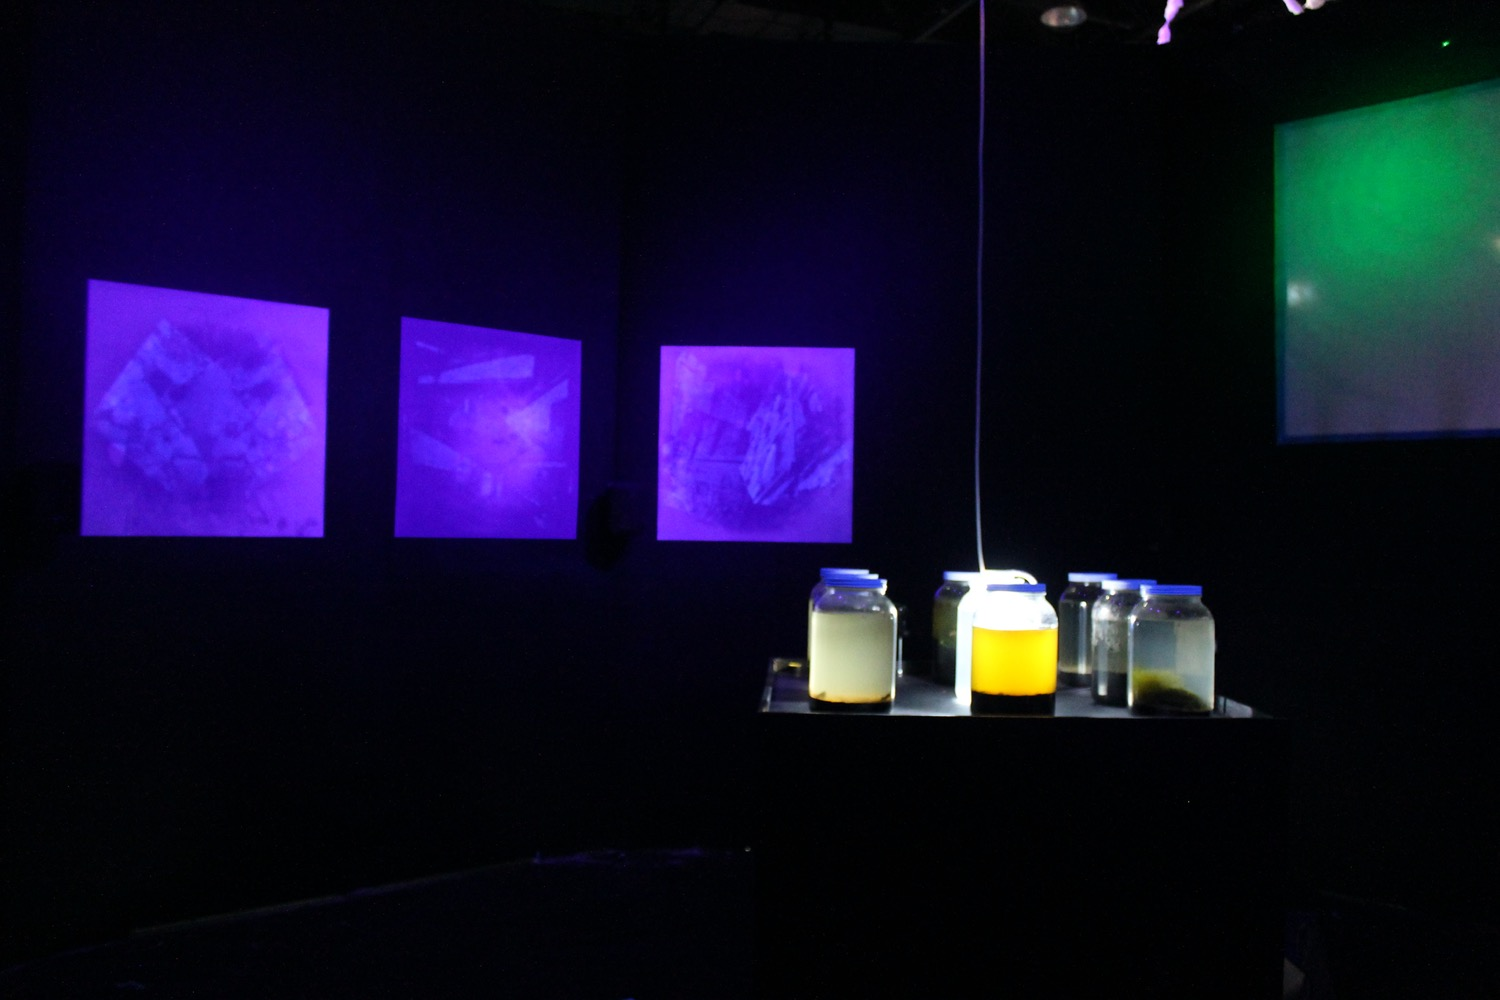
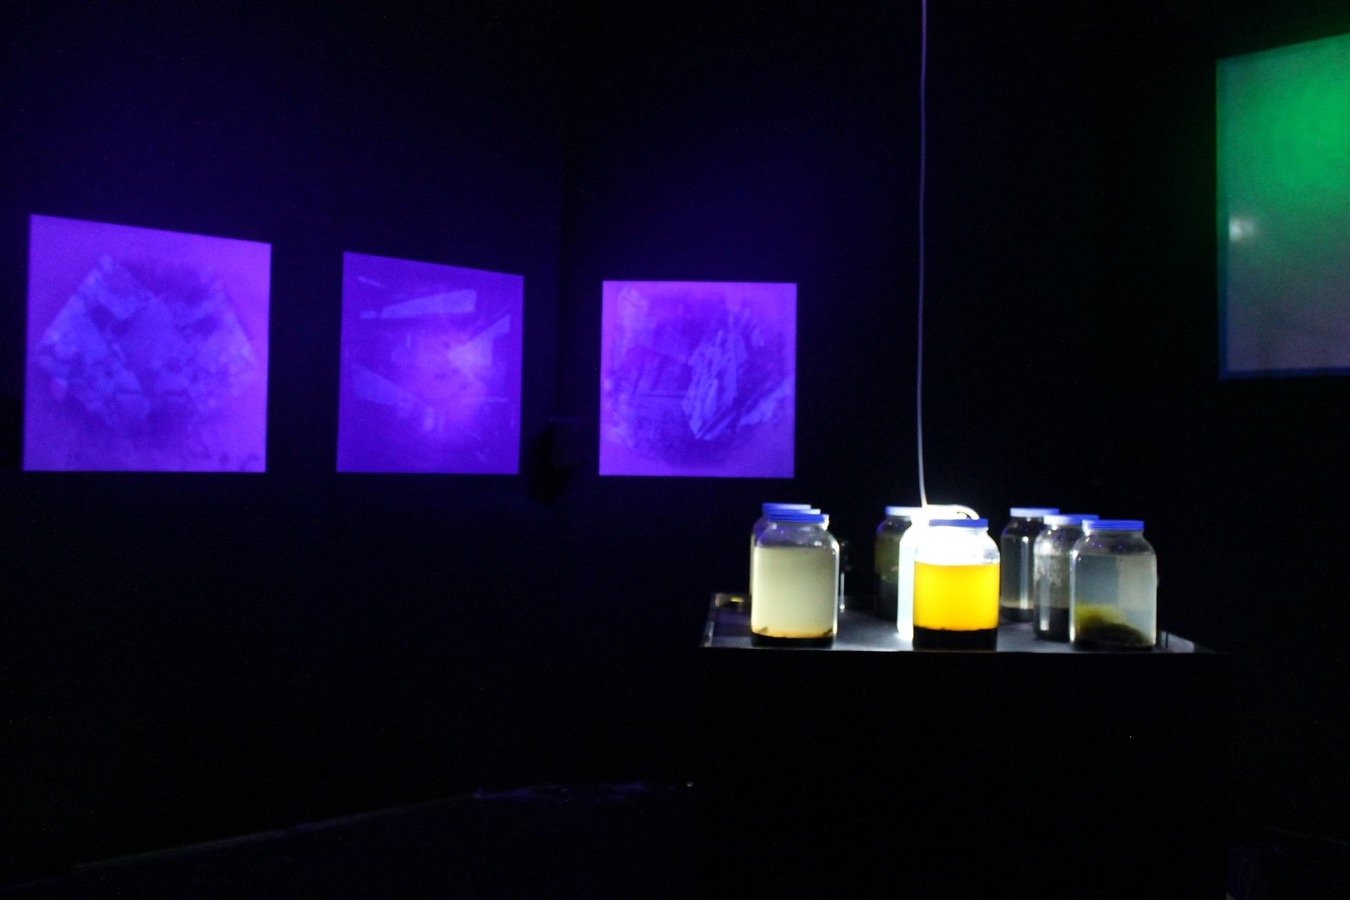
img sizes

diff --git a/_posts/2013-12-01-street-score.md b/_posts/2013-12-01-street-score.md
@@ -1,13 +1,13 @@
 ---
 layout: post
 title:  Street Score
-image: "/assets/projects/streetscore/streetscore_3.jpg"
+image: "/assets/projects/streetscore/streetscore_3_s.jpg"
 categories: [Logic, Max/MSP]
 placedate: "Lyon, 2013"
 hardware: Custom motorized fabric fixtures, LED lighting fixtures, loudspeaker array, computer
 software: Logic, Pure Data
 roles: Sound designer, audio system designer, design engineer, installation coordinator
-description: Site-specific light and sound activation of Passage Thiaffait.
+description: Site-specific light and sound activation of Passage Thiaffait
 ---
 
 <p>This installation is centered around the idea of repetition of sequences and machine-generated patterns. As a response to Lyon’s historically thriving textile industry, the piece is an activation of Passage Thiaffait, a transitional courtyard-like public space, and features twelve custom fixtures emitting light through revolving strips of perforated textile to project complex patterns sequences on the ground. An array of loudspeakers projects a multichannel sound component that is also machine generated.</p>

diff --git a/_posts/2019-11-06-a-membership-of-quality.md b/_posts/2019-11-06-a-membership-of-quality.md
@@ -1,7 +1,7 @@
 ---
 layout: post
 title:  A Membership of Quality
-image: "/assets/projects/a30/a30_3.jpg"
+image: "/assets/projects/a30/a30_3_s.jpg"
 categories: [Processing]
 placedate: New York, 2019
 hardware: Projection system, computer
@@ -19,7 +19,12 @@ description: Data-driven generative video projection
 
 <div class="video-container" style="padding:22.84% 0 0 0;position:relative;"><iframe src="https://player.vimeo.com/video/436993682?autoplay=1&loop=1&byline=0&portrait=0" style="position:absolute;top:0;left:0;width:100%;height:100%;" frameborder="0" allow="autoplay"></iframe></div><script src="https://player.vimeo.com/api/player.js"></script>
 
-<p><img src="{{ page.image }}"></p>
-<p><img src="/assets/projects/a30/a30_2.jpg"></p>
+<p><img 
+	src="/assets/projects/a30/a30_3.jpg"
+	alt="A Membership of Quality video wall"></p>
+
+<p><img 
+	src="/assets/projects/a30/a30_2.jpg"
+	alt="A Membership of Quality video wall"></p>
 
 <p class="inline-descr">Photos, video: Arup</p>

diff --git a/_posts/2013-10-01-resonanz.md b/_posts/2013-10-01-resonanz.md
@@ -1,13 +1,13 @@
 ---
 layout: post
 title:  Resonanz
-image: "/assets/projects/resonanz/luca1 2.jpg"
+image: "/assets/projects/resonanz/luca1 2_s.jpg"
 categories: [Logic, Max/MSP]
 placedate: "Berlin, 2013"
 hardware: Custom textile, loudspeaker array, computer
 software: Logic, Max/MSP
 roles: Sound designer, audio system designer, design engineer, installation coordinator
-description: Site-specific light and sound activation of the Aufbau Haus on Moritzplatz.
+description: Site-specific light and sound activation of the Aufbau Haus on Moritzplatz
 ---
 
 <p>This semi-enclosed architectural space made of bare concrete provided a canvas for our ongoing experimentation around sequences and musical canons as interpreted with light, sound, and physical material.</p>

diff --git a/_posts/2019-11-24-radio-voices.md b/_posts/2019-11-24-radio-voices.md
@@ -1,7 +1,7 @@
 ---
 layout: post
 title:  Radio Voices
-image: "/assets/projects/radiovoices/rv_1.jpg"
+image: "/assets/projects/radiovoices/rv_0_s.jpg"
 categories: [Max/MSP]
 placedate: New York, 2019
 hardware: Digital camera, MIDI controller, computer
@@ -26,4 +26,4 @@ description: Music and dance performance with live generative visuals and surrou
 
 <p class="inline-descr">Photos: Barry Mayo, Raj Patel</p>
 
-<p><a href="https://github.com/leo-nerd/Radio-Voices-visuals">Generative video source code on GitHub</a>
+<p><a href="https://github.com/leo-nerd/Radio-Voices-visuals">Source code on GitHub</a>

diff --git a/_posts/2018-12-01-sounds-of-the-future-city.md b/_posts/2018-12-01-sounds-of-the-future-city.md
@@ -1,9 +1,9 @@
 ---
 layout: post
 title:  Sounds Of The Future City
-image: "/assets/projects/ch/ch_1.jpg"
+image: "/assets/projects/ch/ch_1_s.jpg"
 categories: [Logic]
-placedate: New York, 2018"
+placedate: New York, 2018
 hardware: Loudspeaker array, computer
 software: Spat Revolution, Max/MSP, Logic, Massive
 roles: Sound designer, audio system designer, creative developer, installation coordinator

diff --git a/_posts/2019-05-01-scope.md b/_posts/2019-05-01-scope.md
@@ -1,7 +1,7 @@
 ---
 layout: post
 title:  Scope
-image: "/assets/projects/scope/scope_1.jpg"
+image: "/assets/projects/scope/scope_1_s.jpg"
 categories: [Max/MSP]
 placedate: "Detroit, 2019"
 hardware: Cyanotype and UV-reactive prints on paper and frosted mylar, custom laser microscope, sediment jars, LED light fixtures, loudspeaker array, custom control hardware, computer.

diff --git a/_posts/2014-01-01-various-Arup.md b/_posts/2014-01-01-various-Arup.md
@@ -2,7 +2,7 @@
 layout: post_noDate
 title:  Various Arup projects
 description: A selection of projects I worked on during my time at Arup in Amsterdam and New York
-image: "/assets/projects/arup/tiara.jpg"
+image: "/assets/projects/arup/tiara_s.jpg"
 categories: [various]
 placedate: "2015 — 2020"
 ---

diff --git a/_posts/2015-10-01-leslie-pavilion.md b/_posts/2015-10-01-leslie-pavilion.md
@@ -1,7 +1,7 @@
 ---
 layout: post
 title:  Leslie Pavilion
-image: "/assets/projects/leslie/leslie_1.jpg"
+image: "/assets/projects/leslie/leslie_1_s.jpg"
 categories: [Max/MSP]
 placedate: "Amsterdam, 2015"
 hardware: Custom wood reflector and steerable line-array loudspeaker assemblies, computer

diff --git a/_posts/2017-12-01-a-wild-thing.md b/_posts/2017-12-01-a-wild-thing.md
@@ -1,7 +1,7 @@
 ---
 layout: post
 title:  A Wild Thing
-image: "/assets/projects/mvs/Picture1.jpg"
+image: "/assets/projects/mvs/Picture1_s.jpg"
 categories: [Max/MSP]
 placedate: "Miami, 2017"
 hardware: Hyperdirectional loudspeakers, surface audio transducers, cameras, Raspberry Pis, computer

diff --git a/_posts/2014-08-01-kryptoflex.md b/_posts/2014-08-01-kryptoflex.md
@@ -1,7 +1,7 @@
 ---
 layout: post
 title:  Kryptoflex
-image: "/assets/projects/kryptoflex/krypto_1.jpg"
+image: "/assets/projects/kryptoflex/krypto_1_s.jpg"
 categories: [Processing]
 placedate: "New York, 2014"
 hardware: MIDI controllers, custom LED fixture, Arduino, computer

diff --git a/_posts/2014-08-01-colony.md b/_posts/2014-08-01-colony.md
@@ -1,7 +1,7 @@
 ---
 layout: post
 title:  Colony
-image: "/assets/projects/colony/colony_1.jpg"
+image: "/assets/projects/colony/colony_1_s.jpg"
 categories: [Logic, Max/MSP]
 placedate: "New York, 2014"
 hardware: Organic bricks, custom audio transducer assembly, computer

diff --git a/_posts/2016-08-01-hubble-cantata.md b/_posts/2016-08-01-hubble-cantata.md
@@ -1,7 +1,7 @@
 ---
 layout: post
 title:  The Hubble Cantata
-image: "/assets/projects/hubble/hubble_1.jpg"
+image: "/assets/projects/hubble/hubble_1_s.jpg"
 categories: [Max/MSP]
 placedate: "New York, 2016"
 hardware: Loudspeaker array, computer
